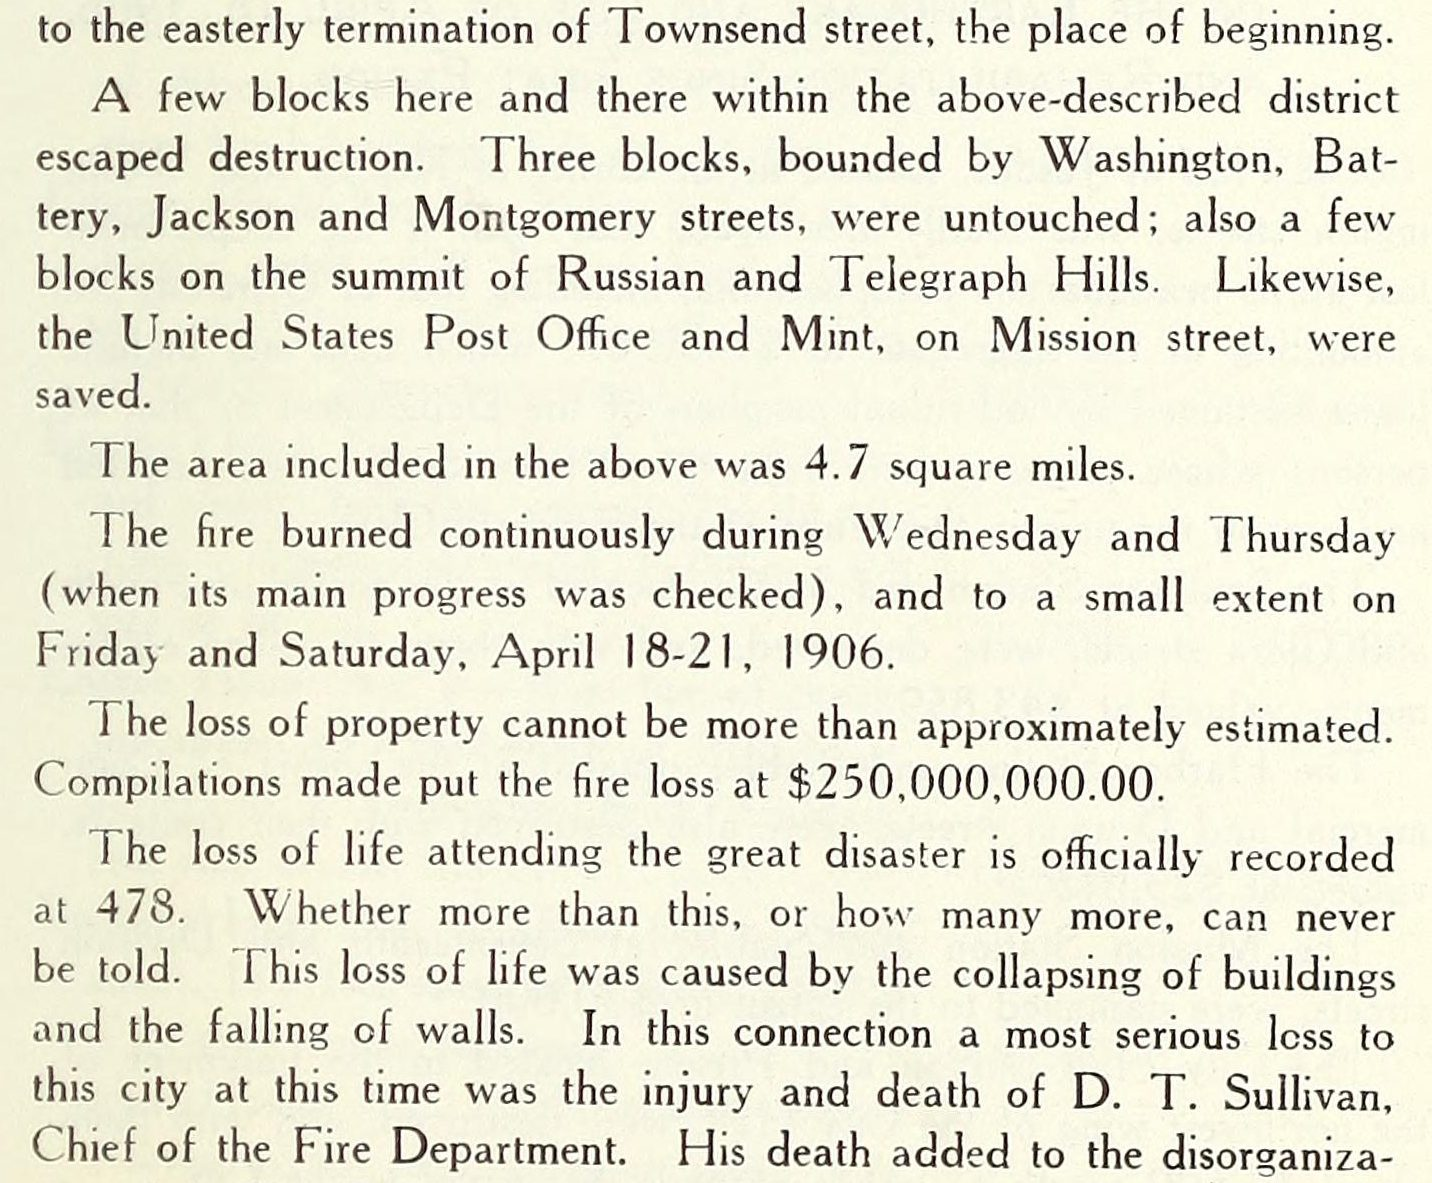
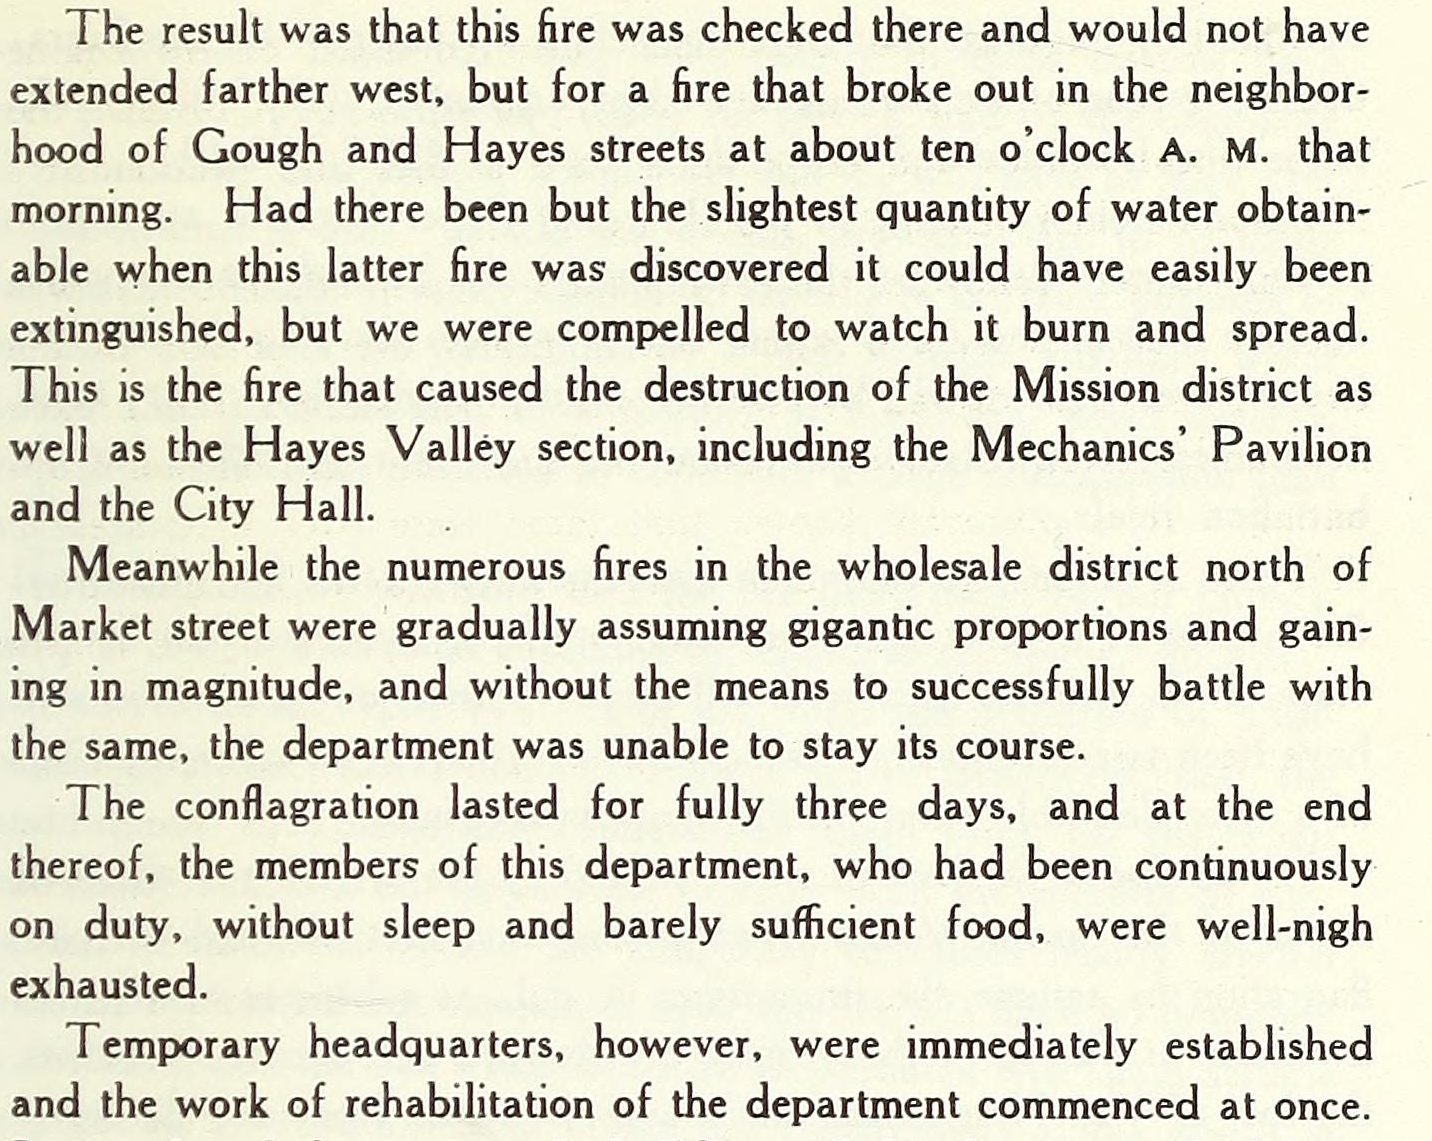
sf city film: the scans were marking the filing labels, and the fire page is now the department's own report
Shot 5 marked the committee's heading; Daniel read the page and said so. The
heading is a filing label. What is marked now is the Board's own reasoning --
"would raise real property values in that district" and "would at once remove an
eyesore which has become so obnoxious as to be well nigh insupportable" -- plus
the caps line naming the four streets, which is kept because the map draws those
four streets beside it. Two marks and not one band: there are 59 words between
the clauses, so a single band would run seven lines and mark a third argument
nobody chose. The mark string carries the OCR's own misreading of "real" because
norm() changes no letters; the picture shows the printed word, since the mark is
placed from the word box.

Shot 7 was checked for the same failure and does not repeat it: that leaf carries
no resolution body at all, only the running head, the title, the amendment and
two vote tallies. The title is the operative text. Marks unchanged, and the
reason is written beside them.

Shot 1 moves to the fire department's report in the same volume, p. 721, marking
"but we were compelled to watch it burn and spread" and "The conflagration
lasted for fully three days". The leaf is proved at rows 1.000, and the page
number was read off the page's own header rather than inferred from its
neighbours. The narration is unchanged.

Changed region(s): [[0.0, 0.0, 0.9832, 1.0]]

diff --git a/pipeline/scripts/us_sf_city/build_film_scans.py b/pipeline/scripts/us_sf_city/build_film_scans.py
@@ -90,35 +90,61 @@ OUT = os.path.join(ROOT, "website", "public", "data", "us", "sf", "city", "film"
 # narration is our one sentence and no archival quotation is ever text a reader
 # is asked to read (NIGHT3 §"THE NARRATION IS OUR SENTENCE").
 SCANS: list[dict] = [
+    # THE FIRE PAGE MOVED, AND WHY. It used to be p. 703, and its mark was the
+    # sentence that dates the fire — the least interesting number in the line,
+    # and one the narration already carries. Daniel approved moving it to the
+    # FIRE DEPARTMENT'S own report in the same volume, four leaves of which
+    # speak in the department's first person: "the buildings of the department
+    # then consisted of 44 engine houses", "the members of this department, who
+    # had been continuously on duty". One page carries both the sentence that
+    # is the moment and the sentence that proves the line.
     dict(
         n=1,
         item="excerptsfromsanf1908sanf",
-        find="The fire burned continuously during Wednesday and Thursday",
+        find="but we were compelled to watch it burn and spread",
         marks=[
-            "The fire burned continuously during Wednesday and Thursday "
-            "(when its main progress was checked), and to a small extent on "
-            "Friday and Saturday, April 18-21, 1906.",
+            # the department, in an official report, saying it stood and watched
+            "but we were compelled to watch it burn and spread",
+            # and the claim the narration makes, on the same page
+            "The conflagration lasted for fully three days",
         ],
         vol="San Francisco Municipal Reports, 1906-07",
-        page="703",
+        page="721",
         when="General History",
-        alt="The city's own account of the fire, printed in the Municipal "
-            "Reports, with the sentence that gives its length marked.",
+        alt="The fire department's own account of April 1906, printed in the "
+            "city's Municipal Reports, with two sentences marked.",
     ),
     dict(
         n=5,
         item="journalofproceed37sanfrich",
         find="Urged to Effectuate Slum Clearance in Japanese Quarter",
+        # THE HEADING IS A FILING LABEL AND THE BODY IS THE THING. The first
+        # version marked the committee's heading; Daniel read the page and said
+        # so. What is marked now is the Board's own REASONING — the two clauses
+        # of the "Whereas" that say what the clearance was for — plus the caps
+        # line, which is kept because it is what the map draws beside it and the
+        # two prove each other.
+        #
+        # THEY ARE TWO MARKS AND NOT ONE BAND, and that was checked rather than
+        # assumed: `.parity/q2japan.py`'s sibling probe measures **59 words
+        # between them**, so a single continuous band would run seven lines and
+        # would also mark the sub-standard-level and military-housing passage,
+        # which is a different claim.
+        #
+        # `i'eal` is the SCAN'S OWN INK and not a typo here. The OCR reads
+        # "real" as "i'eal" on this line, `norm()` changes no letters, and
+        # `find_run` matches the page. Corrected here it would not be found.
         marks=[
-            "National Housing Agency and Home Owners Loan Corporation "
-            "Urged to Effectuate Slum Clearance in Japanese Quarter.",
+            "would raise i'eal property values in that district",
+            "and would at once remove an eyesore which has become so "
+            "obnoxious as to be well nigh insupportable",
             "ELLIS, CALIFORNIA, GOUGH AND FILLMORE STREETS",
         ],
         vol="Journal of Proceedings, vol. 37",
         page="676",
         when="20 April 1942",
-        alt="The Board's own printed page for 20 April 1942, with the "
-            "committee's heading and the four streets it names marked.",
+        alt="The Board's own printed page for 20 April 1942, with two clauses "
+            "of the committee's reasoning and the four streets it names marked.",
     ),
     dict(
         n=7,
@@ -137,6 +163,15 @@ SCANS: list[dict] = [
             "Freeway.",
             "Adopted, as amended, by the following vote:",
         ],
+        # CHECKED AGAINST THE SAME FAILURE SHOT 5 HAD, AND IT DOES NOT REPEAT.
+        # The question was whether this shot is also marking a filing label
+        # while the body says the real thing. It is not: **this leaf carries no
+        # resolution body at all.** Its 456 words are the running head, an
+        # unrelated Russian Hill item, the resolution's TITLE — which is the
+        # operative text, naming seven freeways and striking them and excepting
+        # three — the amendment motion, and the two votes. The "Whereas" body
+        # is nine leaves earlier with the debate and the postponement (§28.4).
+        # So the heading here is the fact, and the marks stand.
         vol="Journal of Proceedings, vol. 54",
         page="44",
         when="26 January 1959",

diff --git a/website/src/components/us/city/FILM.md b/website/src/components/us/city/FILM.md
@@ -4106,3 +4106,87 @@ not thousands. It did not explode.
 **The win is a COST and not a COUNT, so it cannot be measured on a stale server.
 Handed to the coordinator for a `:3100` rebuild, and `q8play.py base` is the row
 to compare against.**
+
+## 31 · Block M1h — the marks were on the filing labels
+
+> *"bro also the japanese scan — you highlighted the title, not the part you
+> said that was about clearing slum or whatever, was the shocking language"*
+
+### 31.1 Shot 5: the heading is dropped and the reasoning is marked
+
+Three marks now, and the committee's heading is not one of them.
+
+| # | marked | boxes |
+|---|---|---:|
+| 1 | *"would raise real property values in that district"* | 1 line |
+| 2 | *"and would at once remove an eyesore which has become so obnoxious as to be well nigh insupportable"* | 2 lines |
+| 3 | `ELLIS, CALIFORNIA, GOUGH AND FILLMORE STREETS` | 1 line |
+
+The caps line is kept because **it is what the map is drawing beside it** and the
+two prove each other.
+
+**They are two marks and not one band, and that was measured rather than
+assumed.** The coordinator's instruction was to join them if the OCR word boxes
+allowed, on the reading that the two clauses run consecutively. They do not:
+walked through the page's own word stream there are **59 words between them** —
+the sub-standard-level clause and the military-housing clause — so one
+continuous band would run seven lines and would mark a third argument the Board
+made that neither Daniel nor I chose. Two marks.
+
+**`i'eal` is the scan's own ink.** The OCR reads *real* as *i'eal* on that line.
+`norm()` changes no letters, by its own docstring, so the mark string in
+`build_film_scans.py` carries the misreading or `find_run` does not find it. The
+PICTURE shows the printed word, because the mark is placed from the word BOX and
+not from the OCR's guess at the letters. Written down beside the mark so the
+next reader does not "fix" it.
+
+`out-q5/s05-marks.png`.
+
+### 31.2 Shot 7: checked for the same failure, and it does not repeat
+
+The instruction was to look at the body rather than assume the pattern held.
+**This leaf carries no resolution body at all.** Its 456 words, read end to end,
+are: the running head, an unrelated Russian Hill item, the resolution's TITLE,
+the amendment motion, and two vote tallies. The "Whereas" body is nine leaves
+earlier with the debate and the postponement (§28.4).
+
+So on this page the title IS the operative text — it names seven freeways, strikes
+them, and excepts three — and it is not a filing label. **The marks stand
+unchanged**, and the reasoning is written into the spec beside them so this is
+not re-asked.
+
+### 31.3 Shot 1 moves to the fire department's own report
+
+Daniel approved it. The old mark was the sentence that DATES the fire, which is
+the least interesting number in the line and one the narration already carries.
+
+Four leaves of this volume speak in the fire department's first person — *"the
+buildings of the department then consisted of 44 engine houses"*, *"the members
+of this department, who had been continuously on duty"* — and one page carries
+both the sentence that is the moment and the sentence that proves the line:
+
+- *"but we were compelled to watch it burn and spread"*
+- *"The conflagration lasted for fully three days"*
+
+**The leaf is proved, not computed**, by `build_film_scans.py`'s own rule: djvu
+0027 → **n24, rows 1.000**, first candidate, above the 0.97 short-circuit.
+
+**And the printed page number was read off the page's own ink rather than
+inferred.** The OCR does not capture it on this leaf; the neighbours give 719,
+720 and 722, which would make 721 by arithmetic. The header crop of n24 reads
+`GENERAL HISTORY … 721`. Both `page` and `when` are now what the page says.
+
+`out-q5/s01-marks.png` — and it lands on the fire at phase 0.578, so the frame
+carries a field of flames, the burn line, and the department saying it stood and
+watched.
+
+**Shot 1's narration is unchanged**, as instructed, and so is the arrangement
+where the homeless figure is a separate USGS `also` link.
+
+### 31.4 One thing noticed and left alone
+
+The plate's own citation chip still reads `SCAN EXCERPTSFROMSANF1908SANF · LEAF
+8` while the panel beside it is leaf n24, p. 721. That is §28.4's stated design —
+*"the scan carries its own leaf and its own link and never overwrites the
+shot's"* — and it was already true before this change (the old scan was n6
+against the same LEAF 8). Recorded, not touched.
